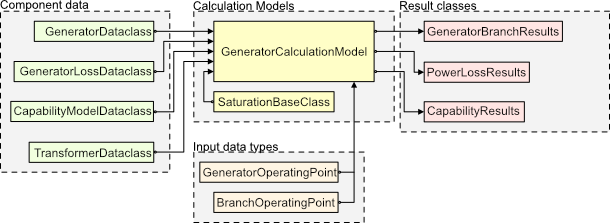
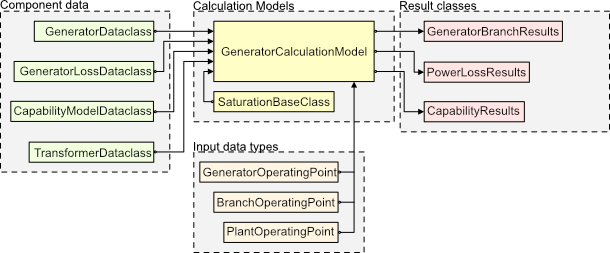
Updated repo to latest version

Changed region(s): [[0.0, 0.0, 1.0, 0.9686], [0.3115, 0.9955, 0.5918, 1.0], [0.5918, 0.8072, 0.623, 0.8341]]

diff --git a/src/syngenlib/models/generator_calculation_model.py b/src/syngenlib/models/generator_calculation_model.py
@@ -1,11 +1,12 @@
-from ..data.data_types import GeneratorOperatingPoint, BranchOperatingPoint 
+from ..data.data_types import GeneratorOperatingPoint, BranchOperatingPoint, PlantOperatingPoint
 from ..data.result_classes import GeneratorBranchResults, PowerLossResult, CapabilityResults
 from ..data.components import GeneratorDataclass, TransformerDataclass, GeneratorLossDataclass, CapabilityModelDataclass
 from .saturation_model import SaturationBaseClass, LinearSaturationModel
 from typing import Optional, Union
-from math import sqrt, atan, atan2, nan, inf
+from math import sqrt, atan, atan2, nan, inf, cos, sin
 import numpy as np 
 from scipy.optimize import root 
+from cmath import phase, polar, rect
 
 class GeneratorCalculationModel: 
     def __init__(self, gen_data: GeneratorDataclass, 
@@ -43,11 +44,13 @@ class GeneratorCalculationModel:
         self._m = atan(self.capability_data.rotor_angle_max_rad)
         self.x_tot_pu = self.trafo_data.X_T + self.gen_data.X_d_u
 
-    def calculate_branch_results(self, operating_point: Union[GeneratorOperatingPoint, BranchOperatingPoint]) -> GeneratorBranchResults: 
+    def calculate_branch_results(self, operating_point: Union[GeneratorOperatingPoint, BranchOperatingPoint, PlantOperatingPoint]) -> GeneratorBranchResults: 
         if type(operating_point) == GeneratorOperatingPoint: 
             res = self._calculate_branch_results_from_gen_op(operating_point)
         elif type(operating_point) == BranchOperatingPoint:
             res = self._calculate_branch_results_from_branch_op(operating_point) 
+        elif type(operating_point) == PlantOperatingPoint:
+            res = self._calculate_branch_results_from_plant_op(operating_point)
         else: 
             raise TypeError("operating_point must be of type GeneratorOperatingPoint or BranchOperatingPoint")
         return res
@@ -60,6 +63,8 @@ class GeneratorCalculationModel:
         I_3_sol = res.x[2] + 1j*res.x[3]
         V_n_sol = res.x[4] + 1j*res.x[5]
 
+        V_g_phase = -phase(V_n_sol)
+
         P_g_pu, Q_g_pu, V_g_pu = op.get_PQV_pu(self.gen_data.S_n_mva)
         S_branch = I_3_sol.conj() * V_n_sol
         P_branch = S_branch.real
@@ -67,7 +72,7 @@ class GeneratorCalculationModel:
         E_q_square = V_g_pu**2 * ((1.0 + self.gen_data.X_d_u * Q_g_pu / (V_g_pu**2))**2 + (self.gen_data.X_d_u * P_g_pu / (V_g_pu**2))**2)
         E_q = sqrt(E_q_square)
         I_f = self.saturation_model.get_field_current(P_g_pu, Q_g_pu, V_g_pu, self.gen_data)
-        return GeneratorBranchResults(P_g_pu, Q_g_pu, P_branch, Q_branch, V_g_pu, abs(V_n_sol), E_q, I_f)
+        return GeneratorBranchResults(P_g_pu, Q_g_pu, P_branch, Q_branch, rect(V_g_pu, V_g_phase), abs(V_n_sol), E_q, I_f)
 
     def _get_gen_op_branch_objective(self, op: GeneratorOperatingPoint): 
         P_g_pu, Q_g_pu, V_g_pu = op.get_PQV_pu(self.gen_data.S_n_mva)
@@ -98,24 +103,76 @@ class GeneratorCalculationModel:
     def _calculate_branch_results_from_branch_op(self, op: BranchOperatingPoint) -> GeneratorBranchResults: 
         P_pu, Q_pu, V_pu = op.get_PQV_pu(self.gen_data.S_n_mva)
         phi = atan2(Q_pu, P_pu)
+
+        n = self.trafo_data.tap_ratio
+        # V_pu = V_pu/n        
+
         I_n = (sqrt(P_pu**2 + Q_pu**2) / V_pu) * np.exp(-1j*phi)
-        vec = np.array([V_pu, I_n])
-        M = np.array([[self.trafo_data.A, self.trafo_data.B], [self.trafo_data.C, self.trafo_data.D]]) 
-        V_g_pu, I_a_pu = np.linalg.solve(M, vec)
-        S_g_pu = V_g_pu * I_a_pu.conjugate()
+        # Try simple: 
+        Z_1 = self.trafo_data.Z_12 
+        Y_1 = self.trafo_data.Y_lv 
+        Y_2 = self.trafo_data.Y_hv 
+        V_g = V_pu + I_n * Z_1 + V_pu * Z_1*Y_2 
+        I_g = (V_pu + I_n*Z_1 + V_pu*Y_2*Z_1)*Y_1 + V_pu*Y_2 + I_n 
+        S_g_pu = V_g * I_g.conjugate()
         P_g_pu = S_g_pu.real
         Q_g_pu = S_g_pu.imag
-        V_g_abs = abs(V_g_pu)
+        V_g_abs = abs(V_g)
+
+        # vec = np.array([V_pu, I_n])
+        # M = np.array([[self.trafo_data.A, self.trafo_data.B], [self.trafo_data.C, self.trafo_data.D]]) 
+        # V_g_pu, I_a_pu = np.linalg.solve(M, vec)
+        # S_g_pu = V_g_pu * I_a_pu.conjugate()
+        # P_g_pu = S_g_pu.real
+        # Q_g_pu = S_g_pu.imag
+        # V_g_abs = abs(V_g_pu)
+
         E_q_square = V_g_abs**2 * ((1.0 + self.gen_data.X_d_u * Q_g_pu / (V_g_abs**2))**2 + (self.gen_data.X_d_u * P_g_pu / (V_g_abs**2))**2)
         E_q = sqrt(E_q_square)
         I_f = self.saturation_model.get_field_current(P_g_pu, Q_g_pu, V_g_abs, self.gen_data)
-        return GeneratorBranchResults(P_g_pu, Q_g_pu, P_pu, Q_pu, V_g_pu, V_pu, E_q, I_f)
+        return GeneratorBranchResults(P_g_pu, Q_g_pu, P_pu, Q_pu, V_g, V_pu*n, E_q, I_f)
     
-    def get_branch_losses(self, op: Union[GeneratorOperatingPoint, BranchOperatingPoint]) -> PowerLossResult: 
+    def _calculate_branch_results_from_plant_op(self, op: PlantOperatingPoint) -> GeneratorBranchResults:
+        P_g_pu = op.P_mw / self.gen_data.S_n_mva
+        Y_trafo = 1.0/self.trafo_data.Z_12
+        Y_11 = Y_trafo + self.trafo_data.Y_lv 
+        Y_12 = -Y_trafo
+        Y_21 = -Y_trafo 
+        Y_22 = Y_trafo + self.trafo_data.Y_hv # *self.trafo_data.tap_ratio**2
+        Y_bus = np.array([[Y_11, Y_12], [Y_21, Y_22]])
+        G_bus = Y_bus.real
+        B_bus = Y_bus.imag
+        V_n = op.V_n #/ self.trafo_data.tap_ratio
+
+        def objective(delta_g): 
+            P_g_calc = op.V_g**2 * G_bus[0,0] + V_n*op.V_g*(G_bus[0, 1] * cos(delta_g) + B_bus[0, 1] * sin(delta_g))
+            return np.array([P_g_pu - P_g_calc])
+        
+        res = root(objective, np.array([0.0])) 
+        if not res.success:
+            raise ValueError("Root finding failed. Check the input values.")
+        delta_g = res.x[0]
+        V_g_pu = op.V_g * (cos(delta_g) + 1j*sin(delta_g))
+        v_vec = np.array([V_g_pu, V_n]) 
+        i_inj = Y_bus @ v_vec 
+        s_inj = v_vec * i_inj.conjugate() 
+        # P_g_pu = op.V_g**2 * G_gg + V_n*op.V_g * (-Y_12.real * cos(delta_g) - Y_12.imag * sin(delta_g))
+        # P_pu = V_n**2 * G_nn      + V_n*op.V_g * (-Y_21.real * cos(-delta_g) - Y_21.imag * sin(-delta_g))
+        P_g_pu = s_inj[0].real
+        Q_g_pu = s_inj[0].imag
+        P_pu = -s_inj[1].real
+        Q_pu = -s_inj[1].imag
+        
+        return GeneratorBranchResults(P_g_pu, Q_g_pu, P_pu, Q_pu, V_g_pu, op.V_n, 0.0, 0.0) 
+
+    
+    def get_branch_losses(self, op: Union[GeneratorOperatingPoint, BranchOperatingPoint, PlantOperatingPoint]) -> PowerLossResult: 
         if type(op) == GeneratorOperatingPoint: 
             res = self._calculate_branch_results_from_gen_op(op)
         elif type(op) == BranchOperatingPoint:
-            res = self._calculate_branch_results_from_branch_op(op) 
+            res = self._calculate_branch_results_from_branch_op(op)
+        elif type(op) == PlantOperatingPoint:
+            res = self._calculate_branch_results_from_plant_op(op) 
         else: 
             raise TypeError("operating_point must be of type GeneratorOperatingPoint or BranchOperatingPoint")
         
@@ -134,14 +191,21 @@ class GeneratorCalculationModel:
             
         Returns:
             CapabilityResults: A dataclass containing the reactive power limits and validation checks.
+
+        Note: 
+            You can not use the PlantOperatingPoint for this function.
         """
         if type(operating_point) == GeneratorOperatingPoint: 
             res = self._calculate_branch_results_from_gen_op(operating_point)
             P = res.P_branch_pu 
             V = res.V_grid_pu 
-        else: 
+        elif type(operating_point) == BranchOperatingPoint: 
             P = operating_point.P_mw / self.gen_data.S_n_mva
             V = operating_point.V_pu 
+        elif type(operating_point) == PlantOperatingPoint:
+            raise ValueError("PlantOperatingPoint is not supported for this function.")
+        else:
+            raise TypeError("operating_point must be of type GeneratorOperatingPoint or BranchOperatingPoint")
 
         valid_P = self.capability_data.P_min_pu <= P <= self.capability_data.P_max_pu 
         Q_min_1, Q_max_1, valid_stator = self._get_stator_limits_pu(P, V) 

diff --git a/tests/unit/models/test_generator_loss_model.py b/tests/unit/models/test_generator_loss_model.py
@@ -1,0 +1,48 @@
+from syngenlib import GeneratorDataClass, GeneratorLossModel, GeneratorOperatingPoint 
+from math import pi, sqrt
+import numpy as np 
+
+import unittest
+
+gen_103_mva = GeneratorDataClass(S_n_mva=103, V_nom_kV=11, cos_phi_nom=0.9, 
+                                 X_d_u=1.087, X_q_u=0.676, R_a=0.00182, delta_max=30*pi/180, 
+                                 P_g_min_pu=0.1, P_g_max_pu=1.0, V_g_min=0.95, V_g_max=1.05,
+                                 P_loss_nom_stator_pu=2.6856e-3,
+                                 P_loss_nom_rotor_pu=1.86078e-3, 
+                                 P_loss_nom_core_pu=2.057476e-3, 
+                                 P_loss_nom_const_pu=4.01767e-3) 
+gen_model = GeneratorLossModel(gen_103_mva)
+
+sample_data_P = np.array([0.9, 0.675, 0.45, 0.225, 1.0, 0.75, 0.5, 0.25])*103
+sample_data_Q = np.array([0.436, 0.327, 0.218, 0.109, 0.0, 0.0, 0.0, 0.0])*103
+sample_data_If = np.array([1065.0, 939.12, 816.18, 711.38, 873.17, 776.61, 698.70, 646.84])
+
+P_f = np.array([173.65, 133.66, 101.61, 77.19, 116.29, 91.99, 74.48, 63.81])  # kW
+P_ex = np.array([15.88, 13.02, 10.72, 8.87, 11.65, 9.92, 8.68, 7.92])        # kW
+P_br = np.array([2.13, 1.87, 1.63, 1.42, 1.75, 1.55, 1.40, 1.29])             # kW
+P_a = np.array([187.46, 105.45, 46.86, 11.72, 187.46, 105.45, 46.86, 11.72])  # kW
+P_s = np.array([89.16, 50.15, 22.30, 5.57, 89.16, 50.15, 22.30, 5.57])        # kW
+P_c = np.array([211.92, 211.92, 211.92, 211.92, 211.92, 211.92, 211.92, 211.92]) # kW
+P_be = np.array([240.90, 240.90, 240.90, 240.90, 240.90, 240.90, 240.90, 240.90]) # kW
+P_wf = np.array([172.92, 172.92, 172.92, 172.92, 172.92, 172.92, 172.92, 172.92]) # kW
+
+P_L_s = P_a + P_s 
+P_L_r = P_ex + P_br + P_f
+P_L_c = P_c 
+P_L_f = P_be + P_wf 
+
+class TestGeneratorLossModel(unittest.TestCase): 
+    def test_loss_calculations(self): 
+        for i, (P, Q) in enumerate(zip(sample_data_P, sample_data_Q)): 
+            gen_op = GeneratorOperatingPoint(P=P, Q=Q, V_pu=1.0)
+            gen_loss = gen_model.calculate_generator_power_losses(gen_op)
+            P_L_tot_calc, P_L_s_calc, P_L_r_calc, P_L_c_calc, P_L_f_calc = (x*1000 for x in gen_loss.get_component_losses_mw())
+            self.assertAlmostEqual(P_L_s_calc, P_L_s[i], places=0, msg="Stator losses not equal")
+            self.assertAlmostEqual(P_L_r_calc, P_L_r[i], places=0, msg=f"Rotor losses not equal for P = {P/103} pu and Q = {Q/103} pu")
+            self.assertAlmostEqual(P_L_c_calc, P_L_c[i], places=0, msg="Core losses not equal")
+            self.assertAlmostEqual(P_L_f_calc, P_L_f[i], places=0, msg="Constant losses not equal")
+
+
+
+if __name__ == '__main__': 
+    unittest.main()

diff --git a/tests/unit/data/test_dataclasses.py b/tests/unit/data/test_dataclasses.py
@@ -1,0 +1,37 @@
+import unittest 
+from syngenlib.data import GeneratorOperatingPoint, TransformerOperatingPoint, GeneratorDataClass, TransformerDataClass
+from math import sqrt
+
+gen_test_data = GeneratorDataClass(S_n_mva=100.0, V_nom_kV=50.0, cos_phi_nom=0.9, 
+                                   X_d_u=1.1, X_q_u=1.0, delta_max=0.7, P_g_min_pu=0.1, 
+                                   P_g_max_pu=0.9, P_loss_nom_stator_pu=0.01, P_loss_nom_rotor_pu=0.01, 
+                                   P_loss_nom_core_pu=0.01, P_loss_nom_const_pu=0.01, R_a=0.1, 
+                                   E_q_max=1.2, E_q_min=0.1, V_g_min=0.9, V_g_max=1.1, I_g_max=1.0)
+
+class TestDataClasses(unittest.TestCase):
+        
+    def test_GeneratorOperatingPoint(self):
+        gen_op = GeneratorOperatingPoint(P=100, Q=50, V_pu=1.0)
+        self.assertEqual(gen_op.get_PQV_pu(100), (1.0, 0.5, 1.0))
+        self.assertEqual(gen_op.get_PQV_electrical_units(), (100, 50, 1.0))
+
+    def test_TransformerOperatingPoint(self):
+        trafo_op = TransformerOperatingPoint(S_n_mva=100, V_in_kV=110, V_out_kV=10, P_in_mw=100, P_out_mw=90, Q_in_mvar=50, Q_out_mvar=40)
+        # No tests needed for now
+
+    def test_GeneratorDataClass(self):
+        P_nom = 0.9
+        Q_nom = sqrt(1 - P_nom**2)
+    
+        E_q_nom = sqrt((1 + gen_test_data.X_d_u*Q_nom)**2 + (gen_test_data.X_d_u*P_nom)**2)
+        k_If = E_q_nom**(-1)
+        self.assertEqual(E_q_nom, gen_test_data.E_q_nom)
+        self.assertEqual(k_If, gen_test_data.k_If)
+
+    def test_TransformerDataClass(self):
+        #TODO 
+        pass 
+
+
+if __name__ == "__main__":
+    unittest.main()

diff --git a/tests/unit/models/test_capabiliy_diagram_model.py b/tests/unit/models/test_capabiliy_diagram_model.py
@@ -1,0 +1,20 @@
+from syngenlib import GeneratorDataClass, CapabilityDiagram, GeneratorOperatingPoint
+
+import unittest
+from math import sqrt 
+
+gen_test_data = GeneratorDataClass(S_n_mva=100.0, V_nom_kV=50.0, cos_phi_nom=0.9, 
+                                   X_d_u=1.1, X_q_u=1.0, delta_max=0.7, P_g_min_pu=0.1, 
+                                   P_g_max_pu=0.9, P_loss_nom_stator_pu=0.01, P_loss_nom_rotor_pu=0.01, 
+                                   P_loss_nom_core_pu=0.01, P_loss_nom_const_pu=0.01, R_a=0.1)
+
+class TestCapabilityDiagramModel(unittest.TestCase):
+    def test_NominalOperatingPoint(self):
+        gen_op_nom = GeneratorOperatingPoint(P=90, Q=100*sqrt(1-0.9**2), V_pu=1.0)
+        cap_diag = CapabilityDiagram(gen_test_data)
+        lims = cap_diag.get_generator_limits(gen_op_nom) 
+        self.assertAlmostEqual(lims.Q_max_tot_pu*100, 100*sqrt(1-0.9**2), 6)
+
+
+if __name__ == "__main__":
+    unittest.main()

diff --git a/src/syngenlib/__init__.py b/src/syngenlib/__init__.py
@@ -1,5 +1,5 @@
 from syngenlib.data import GeneratorDataclass, GeneratorLossDataclass, TransformerDataclass, CapabilityModelDataclass
-from syngenlib.data import GeneratorOperatingPoint, BranchOperatingPoint 
+from syngenlib.data import GeneratorOperatingPoint, BranchOperatingPoint, PlantOperatingPoint
 from syngenlib.models import GeneratorCalculationModel, SaturationBaseClass, LinearSaturationModel
 from syngenlib.data import GeneratorBranchResults, CapabilityResults
  

diff --git a/src/syngenlib/data/data_types.py b/src/syngenlib/data/data_types.py
@@ -41,3 +41,11 @@ class BranchOperatingPoint(OperatingPoint):
     def __init__(self, P_mw: float, Q_mvar: float, V_pu: float): 
         super().__init__(P_mw, Q_mvar, V_pu) 
 
+
+class PlantOperatingPoint: 
+    """Generator active power (P_mw), generator voltage (V_g), and grid voltage (V_n). """
+    def __init__(self, P_mw: float, V_g: float, V_n: float): 
+        self.P_mw = P_mw
+        self.V_g = V_g
+        self.V_n = V_n
+
